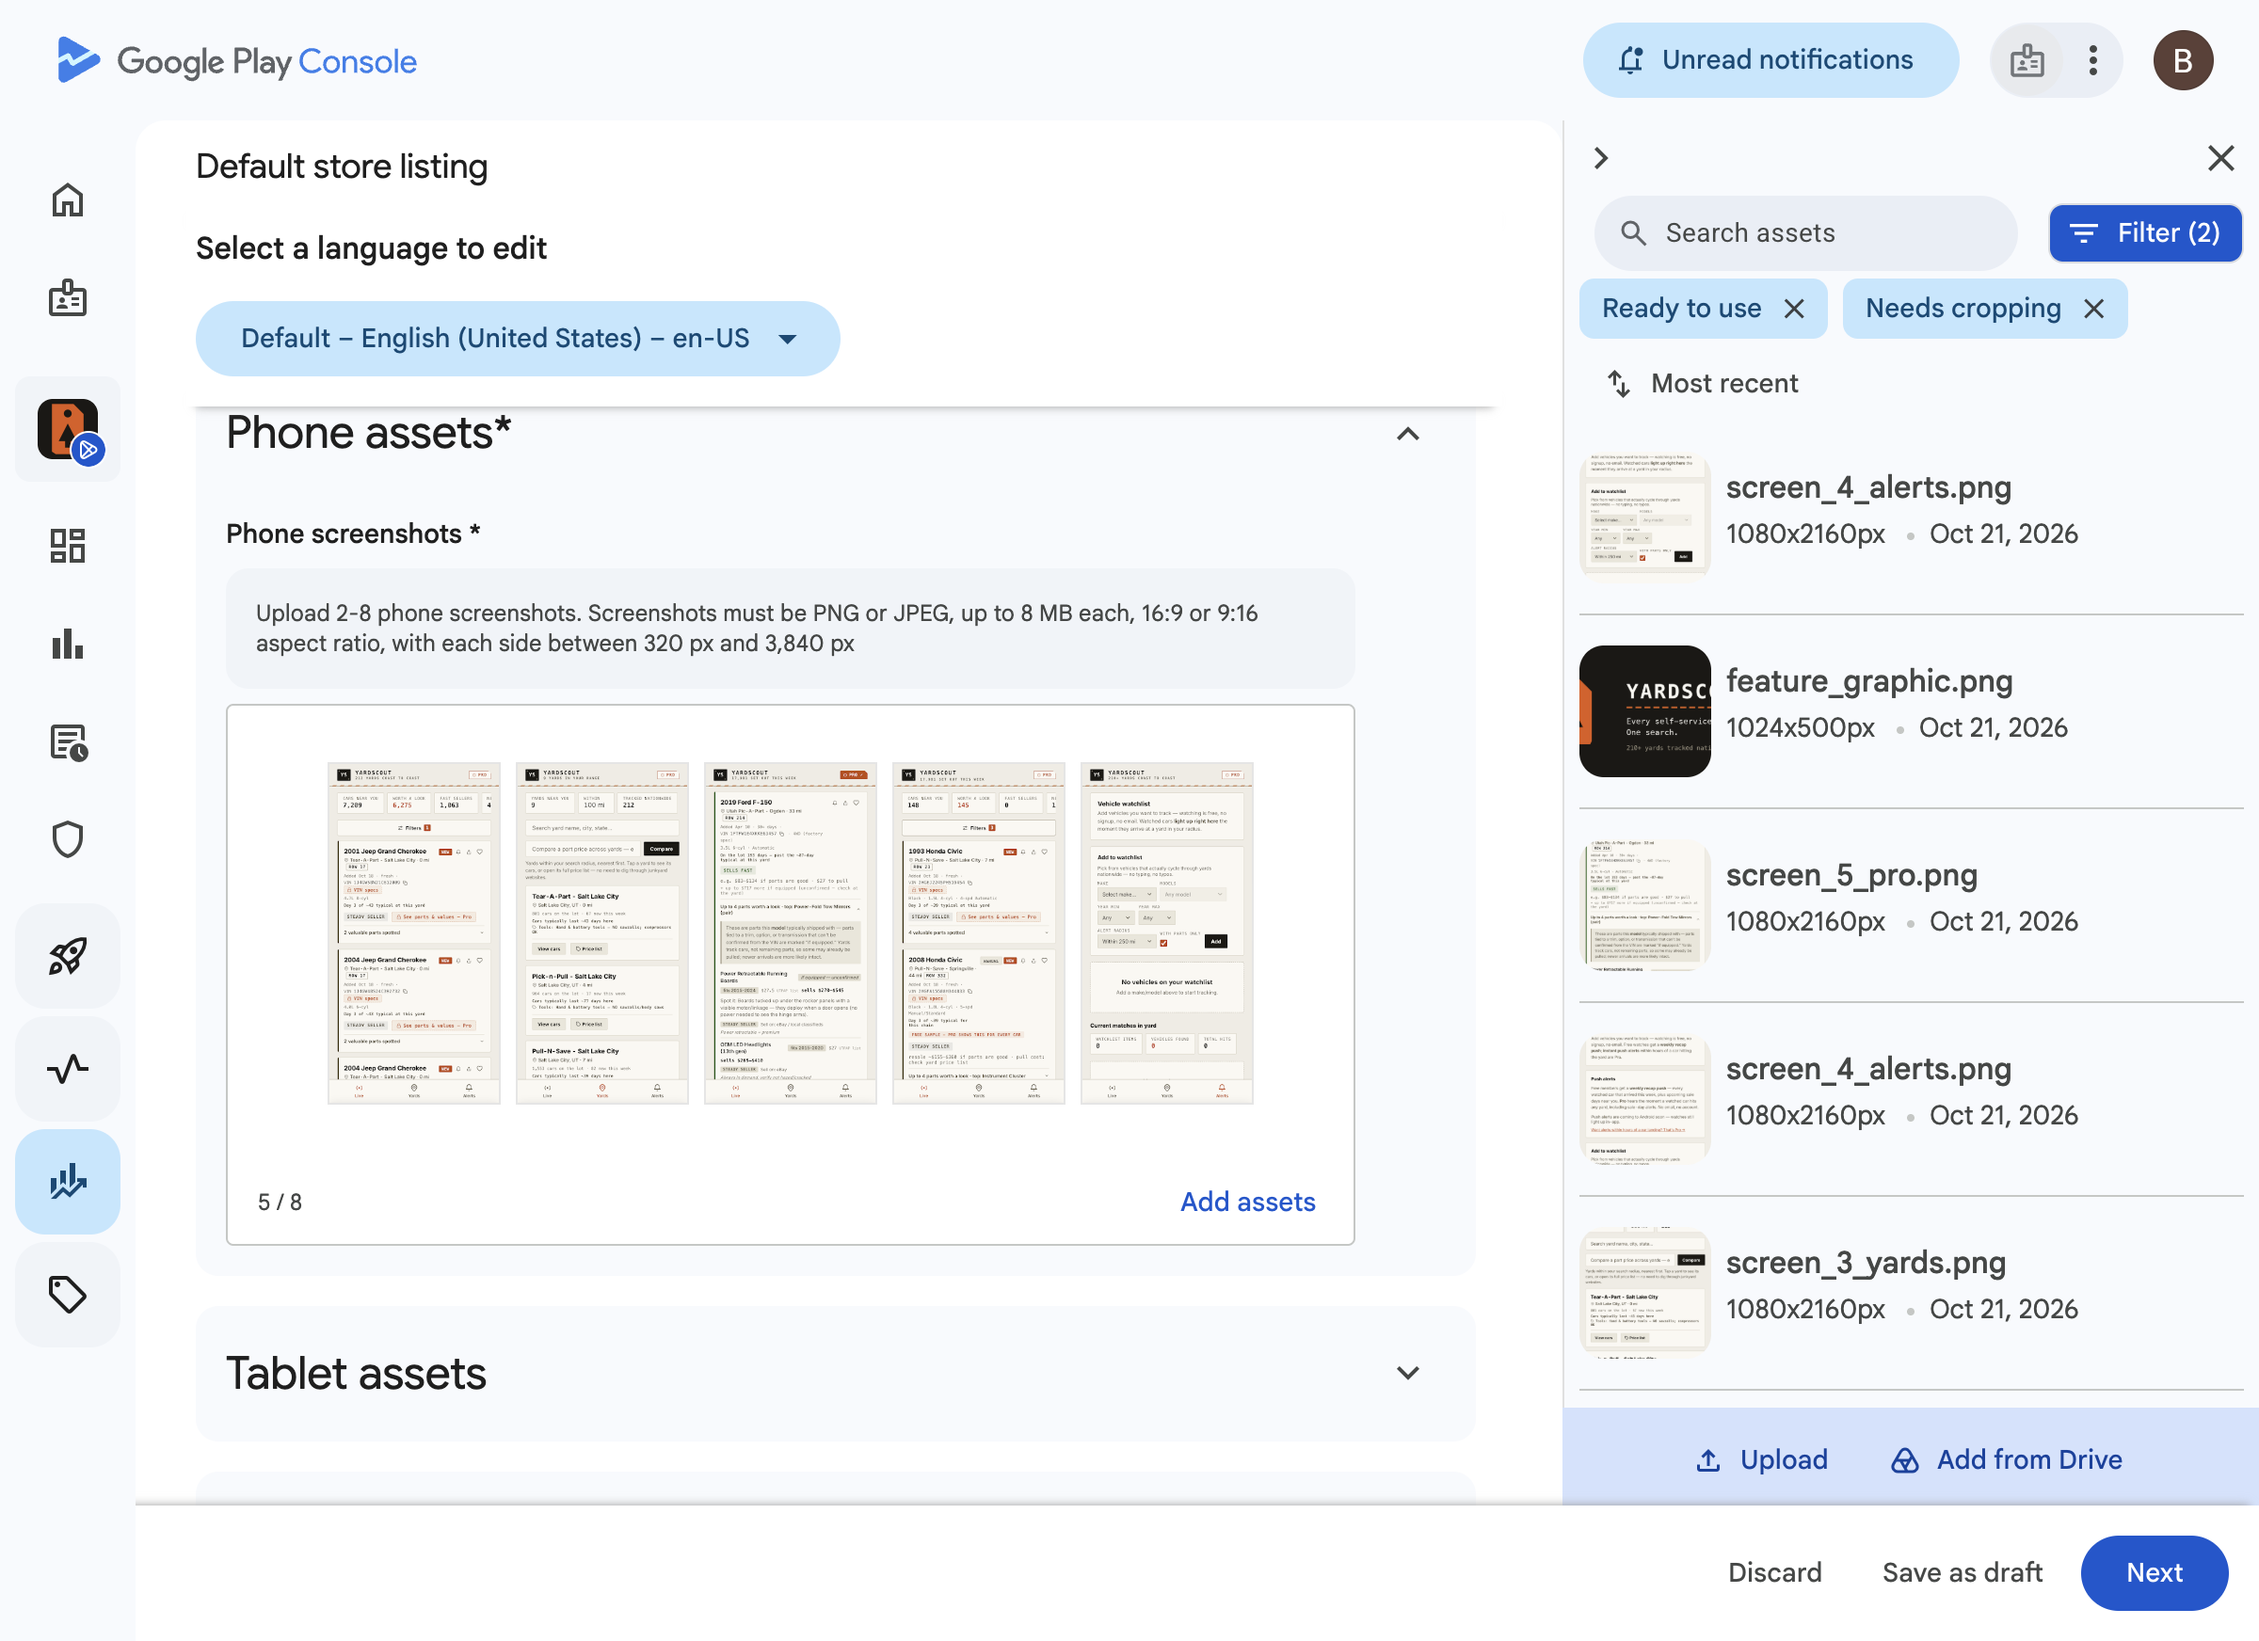
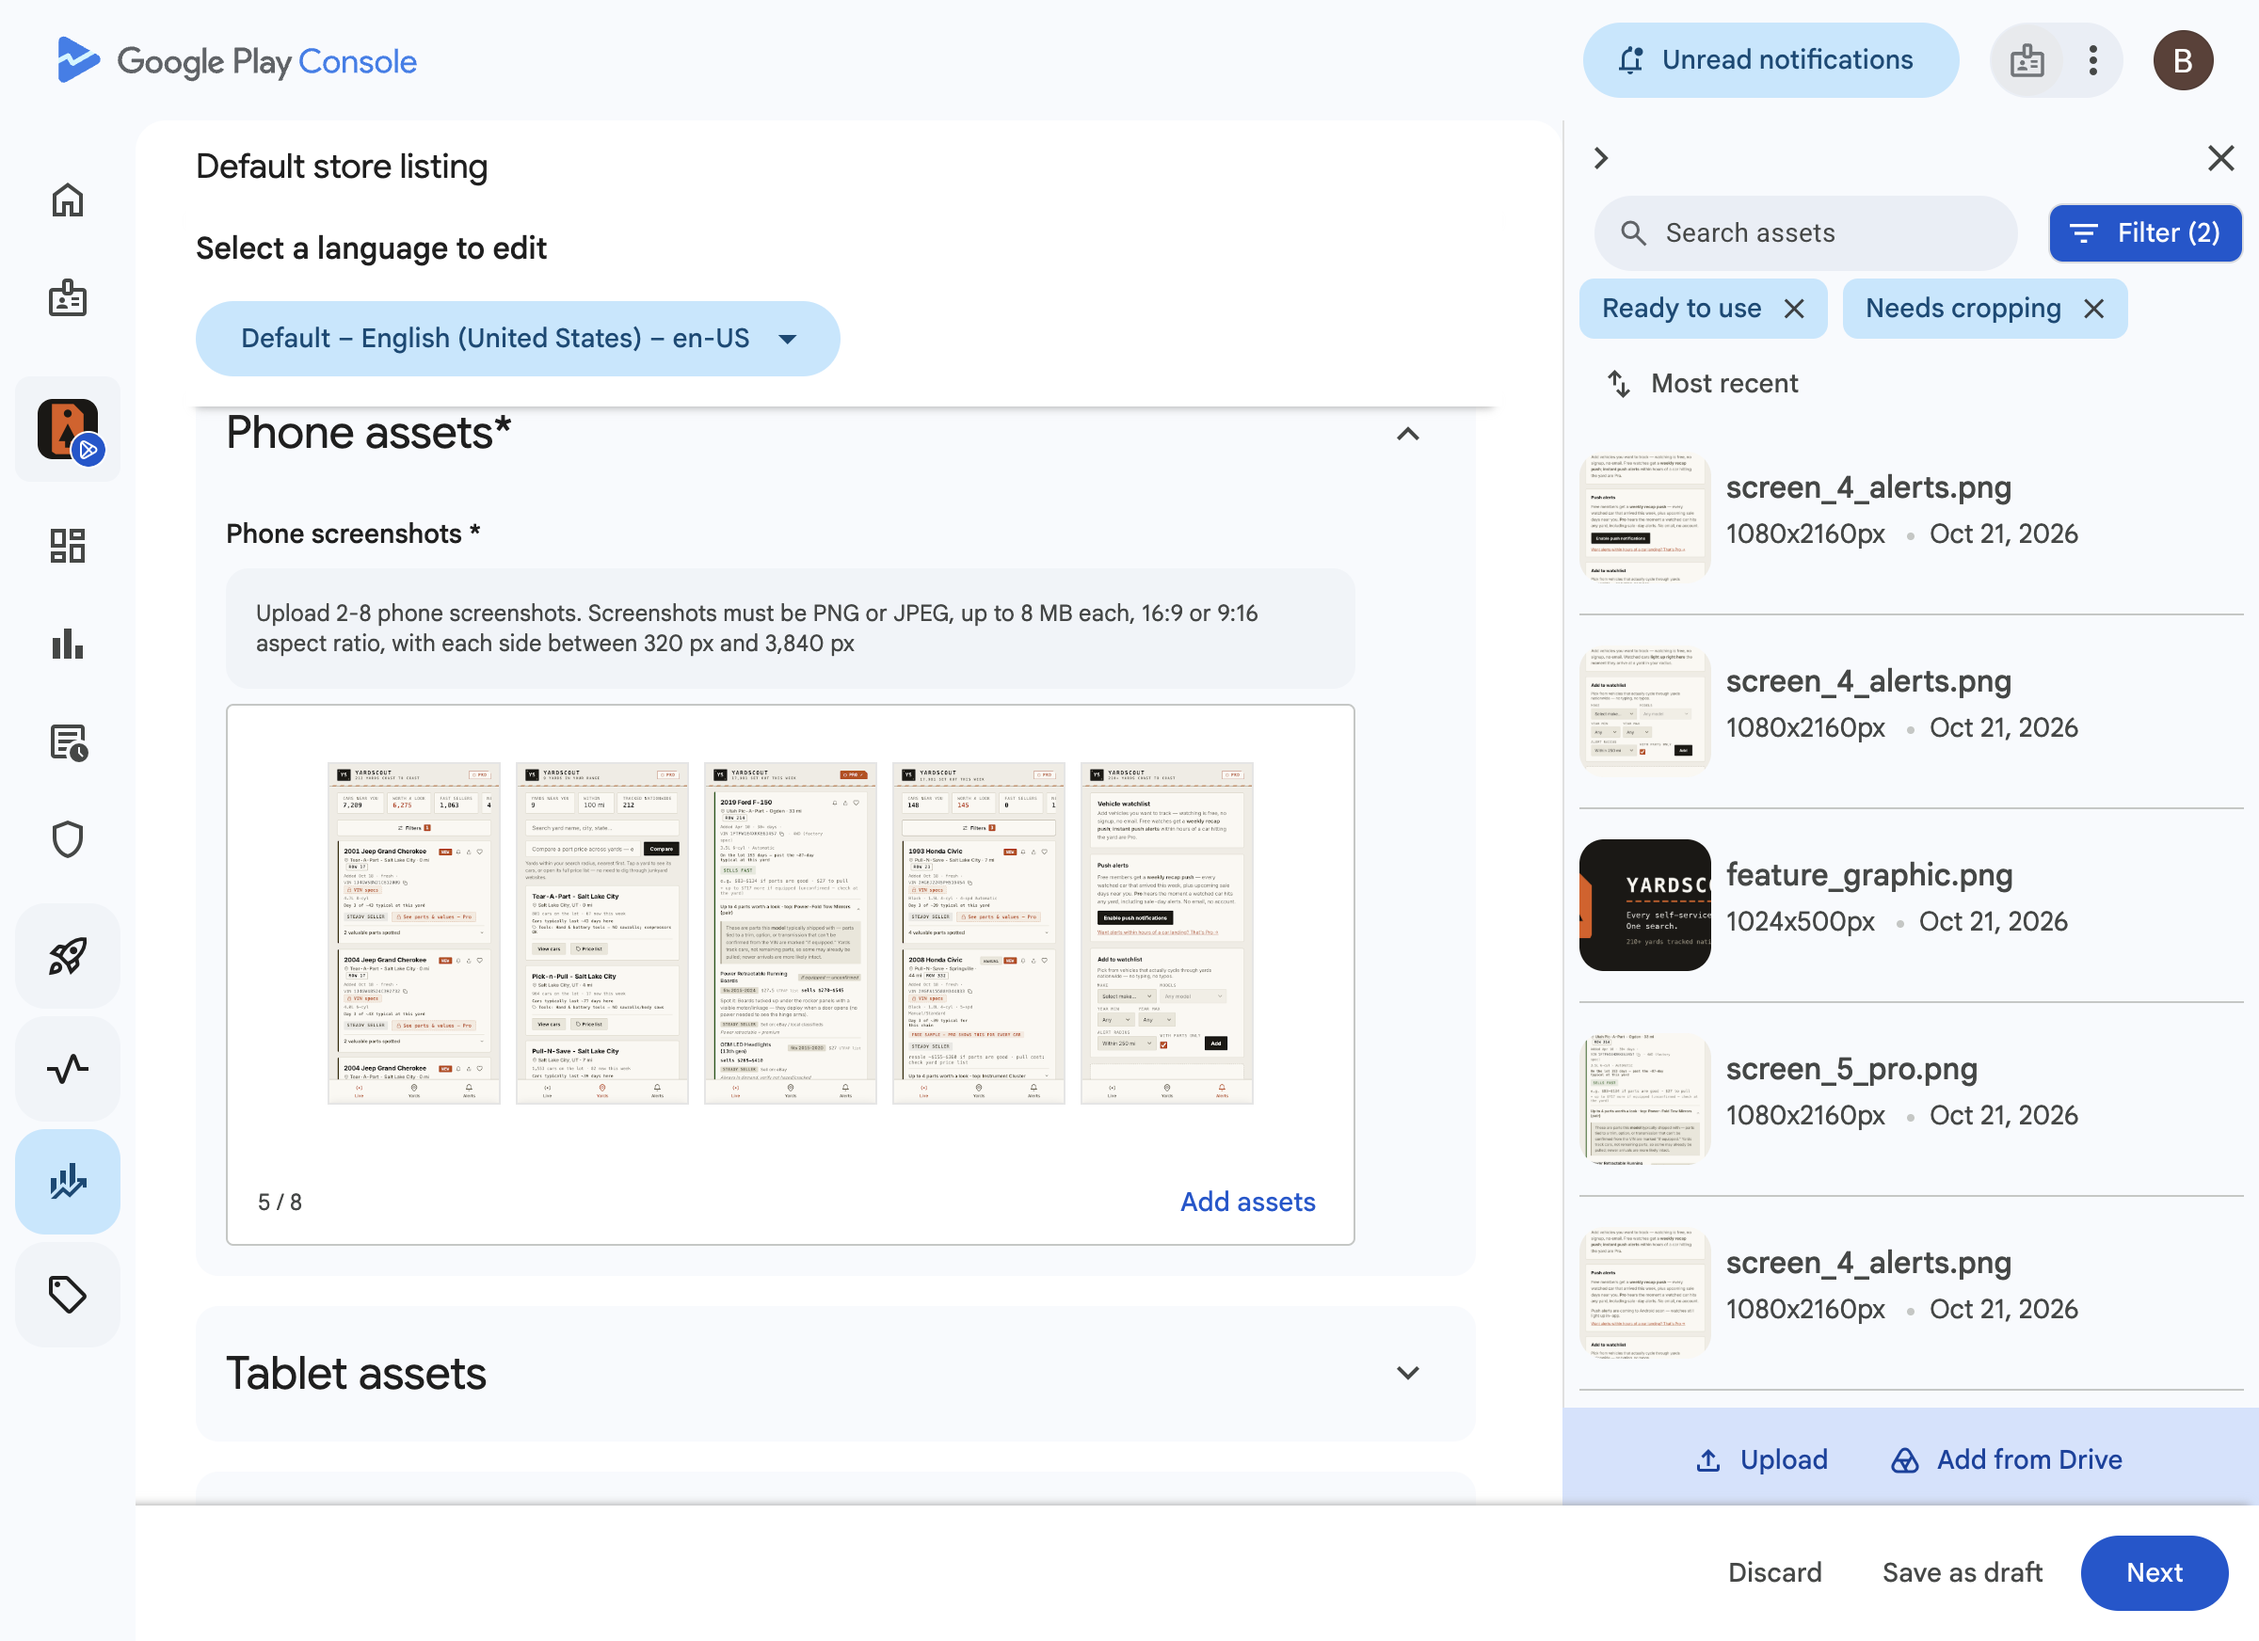
chore(play): swap slide 5 for push-true alerts shot (1.2/FCM live); submitted
Verified production first: track Active, latest release 6 (1.2), 'App update
published' notification. Swapped slide 5 in the live listing (order
preserved), '1 change sent for review'. Earlier listing submissions 4-6 all
show Published in submission activity.

diff --git a/play-assets/listing-update/step24_check_release.py b/play-assets/listing-update/step24_check_release.py
@@ -1,0 +1,28 @@
+"""Confirm production release state: is 6 (1.2) Published/live?
+Read-only — screenshots of publishing overview + production track."""
+from playwright.sync_api import sync_playwright
+from _cdp import shot
+
+APP = ("https://play.google.com/console/u/0/developers/9052149026359320771"
+       "/app/4975171430765358175")
+
+with sync_playwright() as p:
+    browser = p.chromium.connect_over_cdp("http://localhost:9222")
+    ctx = browser.contexts[0]
+    page = next((pg for pg in ctx.pages
+                 if "play.google.com/console" in pg.url
+                 and "submission-activity" not in pg.url), None)
+
+    page.goto(APP + "/publishing", wait_until="domcontentloaded", timeout=90000)
+    page.wait_for_timeout(7000)
+    body = page.evaluate("() => document.body.innerText")
+    print("=== PUBLISHING OVERVIEW ===")
+    print(body[:2200])
+    shot(page, "24-publishing-overview")
+
+    page.goto(APP + "/tracks/production", wait_until="domcontentloaded", timeout=90000)
+    page.wait_for_timeout(8000)
+    body = page.evaluate("() => document.body.innerText")
+    print("=== PRODUCTION TRACK ===")
+    print(body[:2800])
+    shot(page, "24-production-track")
